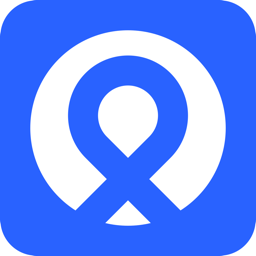
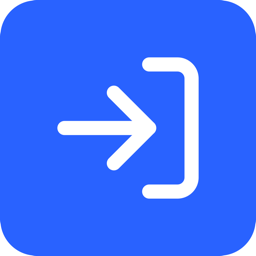
v1.37.0~1.37.1：與終極電商合併「快捷鍵」頂層選單；外掛更新頁品牌圖示改用 Lucide log-in
- v1.37.0：後台選單與 ultimate-ecommerce 共用「快捷鍵」父選單，用 $admin_page_hooks
  互相 fallback 判斷誰是 owner，不依賴兩個外掛的載入順序
- v1.37.1：assets/icon.svg 等外掛更新頁品牌圖示改用 Lucide 的 log-in 造型，取代原本的
  設計稿線稿；「快捷鍵」選單本身的圖示（SHORTCUT_ICON）維持不動

diff --git a/includes/class-wclon-settings.php b/includes/class-wclon-settings.php
@@ -35,6 +35,32 @@ class WCLON_Settings {
 	 */
 	private static $page_hook = '';
 
+	/**
+	 * 與終極電商共用的「快捷鍵」父選單 icon（v1.37.0 新增）。
+	 *
+	 * 逐字複製自終極電商 includes/admin/menus.php 裡 twshop_register_menus()
+	 * add_menu_page() 用的同一串 base64 SVG——兩個外掛各自獨立、不能互相 require
+	 * 對方檔案，只能各自維護一份相同內容的複本。若終極電商更新這個 icon（換圖案、
+	 * 換底色…），這裡要記得手動同步，否則兩站會因為哪個外掛先建立父選單而顯示
+	 * 不同圖示。
+	 */
[1 lines of base64/hex data omitted]
+
+	/**
+	 * 與終極電商互相 fallback 決定「快捷鍵」父選單 slug（v1.37.0 新增）。
+	 *
+	 * 兩邊都各自嘗試建立父選單、用 $admin_page_hooks 判斷是否已存在，不依賴載入順序。
+	 * 見終極電商 includes/admin/menus.php 的 twshop_shortcut_parent_slug()（鏡射邏輯）
+	 * 與兩邊 CLAUDE.md「快捷鍵父選單合併」一節。
+	 */
+	public static function shortcut_parent_slug() {
+		global $admin_page_hooks;
+		if ( isset( $admin_page_hooks['wc-general-settings'] ) ) {
+			return 'wc-general-settings';
+		}
+		return 'wclon-settings';
+	}
+
 	public static function init() {
 		add_action( 'admin_menu', array( __CLASS__, 'add_menu' ) );
 		add_action( 'admin_init', array( __CLASS__, 'register_settings' ) );
@@ -459,14 +485,25 @@ class WCLON_Settings {
 	 * 用小數插在它後面既不會蓋掉別人（同一個整數位置會互相覆蓋），視覺上也跟電商相關的選單排在一起。
 	 */
 	public static function add_menu() {
-		self::$page_hook = add_menu_page(
-			'終極登入',
-			'終極登入',
-			'manage_woocommerce',
-			'wclon-settings',
-			array( __CLASS__, 'render_page' ),
[1 lines of base64/hex data omitted]
-			56.5
+		$parent_slug = self::shortcut_parent_slug();
+		$is_owner    = ( 'wclon-settings' === $parent_slug );
+
+		if ( $is_owner ) {
+			add_menu_page(
+				'快捷鍵', '快捷鍵', 'manage_woocommerce', $parent_slug,
+				array( __CLASS__, 'render_page' ), self::SHORTCUT_ICON, 56
+			);
+			remove_submenu_page( $parent_slug, $parent_slug );
+		}
+
+		// 不管是不是 owner，這一行都要執行——這是終極登入唯一的子選單項目。owner 情境下，
+		// 這是第一筆 add_submenu_page(slug===parent)，避免 WordPress 自動插入重複項目；
+		// attach 情境下，這是掛在終極電商父選單底下的普通一筆。絕對不能在這裡呼叫
+		// remove_submenu_page( $parent_slug, $parent_slug )——那會刪掉 owner（終極電商）
+		// 的第一筆子選單「儀表板」。
+		self::$page_hook = add_submenu_page(
+			$parent_slug, '終極登入', '終極登入', 'manage_woocommerce',
+			'wclon-settings', array( __CLASS__, 'render_page' )
 		);
 	}
 

diff --git a/ultimate-login.php b/ultimate-login.php
@@ -3,7 +3,7 @@
  * Plugin Name: Ultimate Login
  * Plugin URI:  https://example.com
  * Description: 讓顧客透過 LINE、Google、Apple 登入綁定帳號，並在 WooCommerce 訂單狀態變更時，透過 LINE Messaging API 自動推播訂單通知給顧客；同時可推播新訂單通知到管理員/員工共用的 LINE 群組或聊天室。
- * Version:     1.36.1
+ * Version:     1.37.1
  * Author:      NiBill
  * Text Domain: ultimate-login
  * Requires Plugins: woocommerce
@@ -44,7 +44,7 @@ if ( defined( 'WCLON_VERSION' ) ) {
 	return;
 }
 
-define( 'WCLON_VERSION', '1.36.1' );
+define( 'WCLON_VERSION', '1.37.1' );
 define( 'WCLON_PLUGIN_DIR', plugin_dir_path( __FILE__ ) );
 define( 'WCLON_PLUGIN_URL', plugin_dir_url( __FILE__ ) );
 // 會員中心「帳號綁定」獨立頁面的 WC Account endpoint slug
